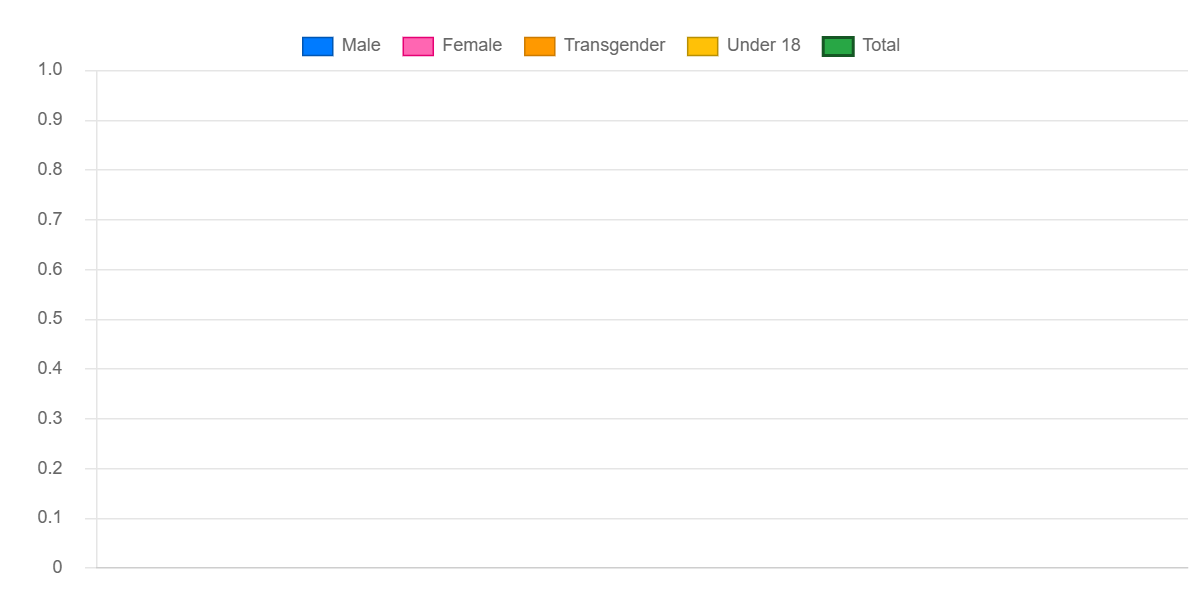
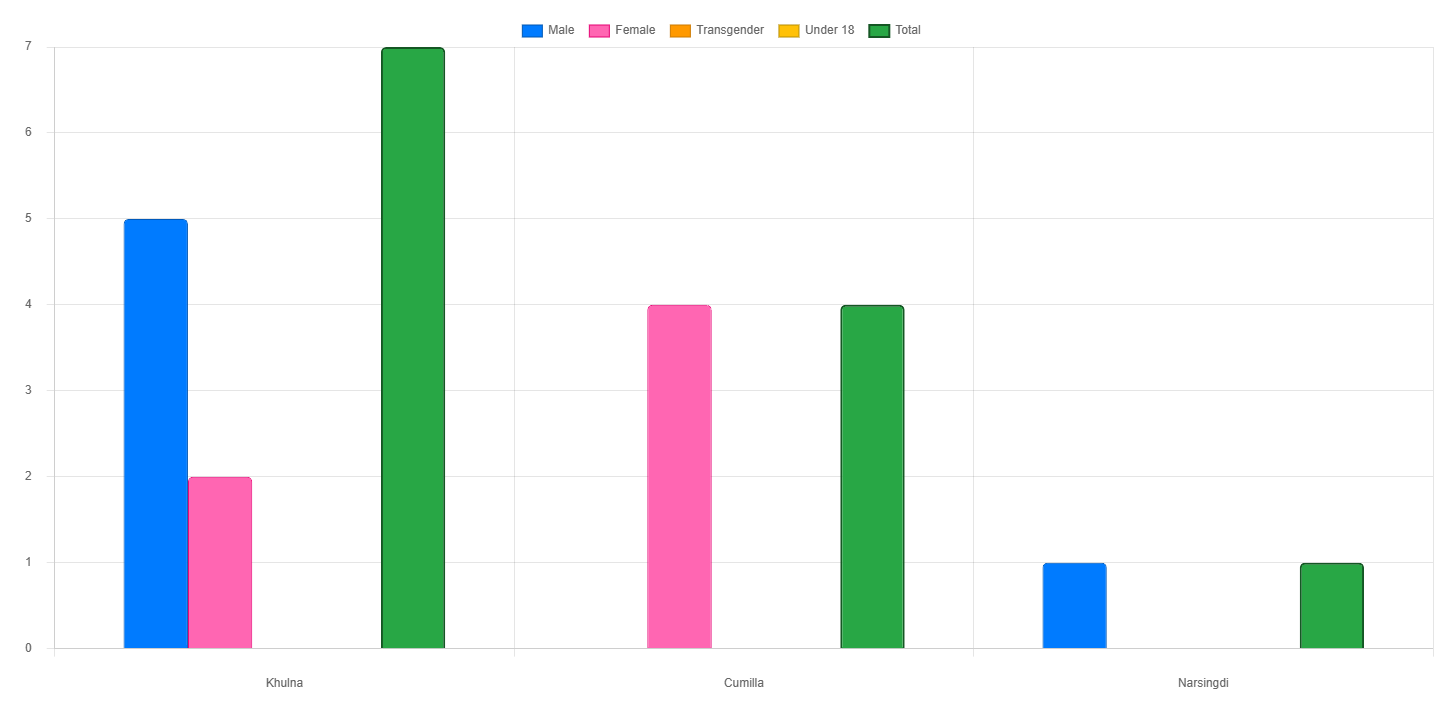
test

diff --git a/resources/views/dashboard/report/case_list.blade.php b/resources/views/dashboard/report/case_list.blade.php
@@ -402,7 +402,7 @@
         $('#loader-overlay').show(); // Show loader
 
         $.ajax({
-            url: '{{ route('generate-pdf') }}',
+            url: '{{ route('generate-pdf', [], false) }}',
             type: 'POST',
             method: 'POST',
             data: {

diff --git a/resources/views/dashboard/report/district-list.blade.php b/resources/views/dashboard/report/district-list.blade.php
@@ -112,7 +112,7 @@
         $('#loader-overlay').show();
 
         $.ajax({
-            url: '{{ route('generate-pdf') }}',
+            url: '{{ route('generate-pdf', [], false) }}',
             type: 'POST',
             method: 'POST',
             data: {

diff --git a/resources/views/dashboard/report/district-summery.blade.php b/resources/views/dashboard/report/district-summery.blade.php
@@ -151,7 +151,7 @@
         $('#loader-overlay').show();
 
         $.ajax({
-            url: '{{ route('generate-pdf-chart') }}',  // Your route to handle the POST request
+            url: '{{ route('generate-pdf-chart', [], false) }}',  // Your route to handle the POST request
             type: 'POST',
             method: 'POST',
             data: {

diff --git a/resources/views/dashboard/report/lsid-report.blade.php b/resources/views/dashboard/report/lsid-report.blade.php
@@ -438,7 +438,7 @@
         $('#loader-overlay').show();
 
         $.ajax({
-            url: '{{ route('lsid-register.report.pdf') }}',
+            url: '{{ route('lsid-register.report.pdf', [], false) }}',
             type: 'POST',
             method: 'POST',
             data: {

diff --git a/resources/views/dashboard/report/pngo-summery.blade.php b/resources/views/dashboard/report/pngo-summery.blade.php
@@ -149,7 +149,7 @@
         $('#loader-overlay').show();
 
         $.ajax({
-            url: '{{ route('generate-pdf-chart') }}',  // Your route to handle the POST request
+            url: '{{ route('generate-pdf-chart', [], false) }}',  // Your route to handle the POST request
             type: 'POST',
             method: 'POST',
             data: {

diff --git a/resources/views/dashboard/report/result-custom-report.blade.php b/resources/views/dashboard/report/result-custom-report.blade.php
@@ -188,7 +188,7 @@
         $('#loader-overlay').show();
 
         $.ajax({
-            url: '{{ route('generate-pdf') }}',
+            url: '{{ route('generate-pdf', [], false) }}',
             type: 'POST',
             method: 'POST',
             data: {

diff --git a/resources/views/dashboard/report/search-list.blade.php b/resources/views/dashboard/report/search-list.blade.php
@@ -175,7 +175,7 @@
         $('#loader-overlay').show(); // Show loader
 
         $.ajax({
-            url: '{{ route('generate-pdf') }}',
+            url: '{{ route('generate-pdf', [], false) }}',
             type: 'POST',
             method: 'POST',
             data: {